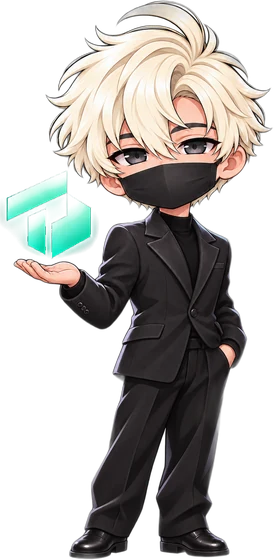
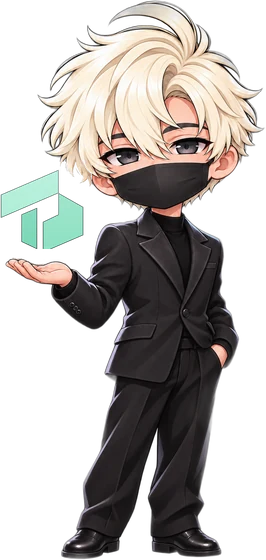
/start: owner's revised start page (sizes adjusted); drop my hero-size override
Owner, Nov 26 (start-page-1126, second version): smaller headline, gold 「ゼロから再び頂点へ」, redrawn logo in
rizel-hero.webp, phones sized to the frame. The hero now scales with the width itself, so the ≤413px override
from the previous commit is gone; the files are the owner's as sent. Checked at 360/390/440/1280.

Claude-Session: https://claude.ai/code/session_01R67K9fPgL6R1EiRyMi6iFp

diff --git a/public/start/index.html b/public/start/index.html
@@ -26,34 +26,33 @@ a:hover{filter:brightness(1.1)}
 @media (prefers-reduced-motion: reduce){.tp-s{animation:none}.tp-d1{opacity:1}.tp-glow{animation:none}.tp-glowm{animation:none}.tp-shine{animation:none}}
 
 .tpc{display:flex;flex-direction:column;align-items:stretch;gap:12px}
-.tpc-stage{position:relative;height:372px;border-radius:14px;background:radial-gradient(240px 200px at 26% 52%,rgba(61,219,176,0.22),rgba(61,219,176,0) 70%),radial-gradient(260px 220px at 76% 50%,rgba(232,190,85,0.36),rgba(232,190,85,0) 70%),#090a11;border:1px solid rgba(232,190,85,0.3);overflow:hidden;touch-action:pan-y;cursor:pointer}
-.tpc-ph{position:absolute;width:136px;height:286px;border-radius:28px;padding:6px;box-sizing:border-box;background:linear-gradient(135deg,#6e6e73 0%,#2b2b2e 18%,#8a8a8f 35%,#3a3a3d 55%,#9a9aa0 80%,#4a4a4d 100%);box-shadow:inset 0 0 0 1px #1c1c1e,inset 0 0 0 2px rgba(168,168,173,.33),0 22px 36px rgba(0,0,0,.8)}
-.tpc-ph:before{content:"";position:absolute;left:-2px;top:58px;width:2px;height:18px;background:#7a7a7e;border-radius:2px;box-shadow:0 28px 0 #7a7a7e,0 56px 0 #7a7a7e}
-.tpc-ph:after{content:"";position:absolute;right:-2px;top:84px;width:2px;height:40px;background:#7a7a7e;border-radius:2px}
-.tpc-l{left:9%;top:22px;transform:rotate(-6deg);z-index:1}
-.tpc-r{right:9%;top:34px;transform:rotate(5deg);z-index:2;box-shadow:inset 0 0 0 1px #1c1c1e,inset 0 0 0 2px rgba(168,168,173,.33),0 22px 36px rgba(0,0,0,.8),0 0 34px rgba(232,190,85,.35)}
-.tpc-sc{position:relative;width:100%;height:100%;border-radius:22px;overflow:hidden;background:#0b0f16}
-.tpc-sb{position:absolute;top:0;left:0;right:0;height:18px;display:flex;justify-content:space-between;align-items:center;padding:0 7px 0 14px;font:600 7px -apple-system,"Helvetica Neue",sans-serif;color:#fff;z-index:2;background:#0b0f16}
-.tpc-sb>span:last-child{transform:scale(.5)!important}
-.tpc-di{position:absolute;top:5px;left:50%;width:38px;height:11px;margin-left:-19px;border-radius:7px;background:#000;z-index:3}
-.tpc-img{position:absolute;left:0;right:0;top:18px;width:100%;opacity:0;transition:opacity .45s ease}
+.tpc-stage{position:relative;container-type:inline-size;height:calc(var(--w,300px)*1);border-radius:14px;background:radial-gradient(60% 55% at 26% 48%,rgba(61,219,176,0.22),rgba(61,219,176,0) 70%),radial-gradient(60% 55% at 76% 48%,rgba(232,190,85,0.36),rgba(232,190,85,0) 70%),#090a11;border:1px solid rgba(232,190,85,0.3);overflow:hidden;touch-action:pan-y;cursor:pointer;aspect-ratio:1/1.22;height:auto}
+.tpc-ph{position:absolute;width:47cqw;aspect-ratio:136/286;border-radius:7.8cqw;padding:1.7cqw;box-sizing:border-box;background:linear-gradient(135deg,#6e6e73 0%,#2b2b2e 18%,#8a8a8f 35%,#3a3a3d 55%,#9a9aa0 80%,#4a4a4d 100%);box-shadow:inset 0 0 0 1px #1c1c1e,inset 0 0 0 2px rgba(168,168,173,.33),0 22px 36px rgba(0,0,0,.8)}
+.tpc-ph:before{content:"";position:absolute;left:-2px;top:20%;width:2px;height:6%;background:#7a7a7e;border-radius:2px;box-shadow:0 9cqw 0 #7a7a7e}
+.tpc-ph:after{content:"";position:absolute;right:-2px;top:29%;width:2px;height:14%;background:#7a7a7e;border-radius:2px}
+.tpc-l{left:4cqw;top:5cqw;transform:rotate(-6deg);z-index:1}
+.tpc-r{right:4cqw;top:8cqw;transform:rotate(5deg);z-index:2;box-shadow:inset 0 0 0 1px #1c1c1e,inset 0 0 0 2px rgba(168,168,173,.33),0 22px 36px rgba(0,0,0,.8),0 0 34px rgba(232,190,85,.35)}
+.tpc-sc{position:relative;width:100%;height:100%;border-radius:6.2cqw;overflow:hidden;background:#0b0f16}
+.tpc-sb{position:absolute;top:0;left:0;right:0;height:5cqw;display:flex;justify-content:space-between;align-items:center;padding:0 2cqw 0 4cqw;font:600 2cqw -apple-system,"Helvetica Neue",sans-serif;color:#fff;z-index:2;background:#0b0f16}
+.tpc-sb>span:last-child{transform:scale(.14cqw)!important;transform:scale(.5)!important}
+.tpc-di{position:absolute;top:1.4cqw;left:50%;width:10.5cqw;height:3cqw;margin-left:-5.25cqw;border-radius:2cqw;background:#000;z-index:3}
+.tpc-img{position:absolute;left:0;right:0;top:5cqw;width:100%;opacity:0;transition:opacity .3s ease}
 .tpc-img.on{opacity:1}
-.tpc-gl{position:absolute;inset:0;border-radius:22px;background:linear-gradient(115deg,rgba(255,255,255,.11) 0%,rgba(255,255,255,.02) 28%,rgba(255,255,255,0) 40%);pointer-events:none;z-index:4}
-.tpc-caps{position:absolute;left:0;right:0;bottom:12px;height:20px}
-.tpc-cap{position:absolute;inset:0;opacity:0;transition:opacity .45s ease}
-.tpc-cap.on{opacity:1}
-.tpc-cap span{position:absolute;width:150px;text-align:center;font-size:12px;font-weight:700;white-space:nowrap}
-.tpc-cap .c1{left:calc(9% - 7px);color:#3ddbb0}.tpc-cap .c2{right:calc(9% - 7px);color:#f6d675}
-.tpc-cap .one{left:0;right:0;width:auto;color:#fff1b8;font-size:13px}
+.tpc-gl{position:absolute;inset:0;border-radius:6.2cqw;background:linear-gradient(115deg,rgba(255,255,255,.11) 0%,rgba(255,255,255,.02) 28%,rgba(255,255,255,0) 40%);pointer-events:none;z-index:4}
+.tpc-caps{position:absolute;left:0;right:0;bottom:4cqw;height:20px}
+.tpc-cap{position:absolute;inset:0;display:none}
+.tpc-cap.on{display:block;animation:tpcin .35s ease}
+@keyframes tpcin{from{opacity:0}to{opacity:1}}
+.tpc-cap span{position:absolute;width:44cqw;text-align:center;font-size:clamp(10.5px,3.6cqw,13px);font-weight:700;white-space:nowrap}
+.tpc-cap .c1{left:4cqw;color:#3ddbb0}.tpc-cap .c2{right:4cqw;color:#f6d675}
+.tpc-cap .one{left:0;right:0;width:auto;color:#fff1b8;font-size:clamp(11.5px,4cqw,14px)}
 .tpc-ctl{display:flex;align-items:center;justify-content:center;gap:12px}
 .tpc-ar{flex:none;width:30px;height:30px;border-radius:50%;border:1px solid rgba(232,190,85,0.45);background:#0f1017;color:#f6d675;font-size:17px;line-height:1;display:grid;place-items:center;cursor:pointer;padding:0}
 .tpc-dots{display:flex;gap:5px;align-items:center}
 .tpc-dots i{width:6px;height:6px;border-radius:3px;background:#2a2e3a;transition:all .3s}
 .tpc-dots i.on{width:16px;background:#e8be55}
-@media (prefers-reduced-motion: reduce){.tpc-img,.tpc-cap{transition:none}}
+@media (prefers-reduced-motion: reduce){.tpc-img{transition:none}.tpc-cap.on{animation:none}}
 .tp-ln{font-size:clamp(11.5px, calc((100vw - 130px) / 17.5), 15px)}.tp-ln span{display:inline-block;white-space:nowrap}
-/* Phones up to 413px: the figure's feet reached 「作りました！」 (owner spec: no overlap) */
-@media (max-width:413px){.rz-hero{height:184px!important}}
 </style>
 </head>
 <body>
@@ -71,14 +70,14 @@ a:hover{filter:brightness(1.1)}
 </svg>
 <div style="position: absolute; right: 12px; bottom: 76px; width: 14px; height: 14px; border-radius: 50%; background: #f6d675; box-shadow: 0 0 18px 4px rgba(246,214,117,0.7)"></div>
 
-<img class="rz-hero" src="/start/rizel-hero.webp" alt="" aria-hidden="true" style="position: absolute; right: 4px; top: -6px; height: 210px; width: auto; pointer-events: none">
+<img src="/start/rizel-hero.webp" alt="" aria-hidden="true" style="position: absolute; right: -4px; top: -10px; height: clamp(150px, calc(100vw - 210px), 210px); width: auto; pointer-events: none">
 <div style="position: relative; display: flex; align-items: center; gap: 10px; font-size: 13px; font-weight: 700; letter-spacing: 0.14em; color: #3ddbb0"><span style="display: block; width: 28px; height: 2px; background: #3ddbb0"></span>投資家わたがし改め、リゼル始動</div>
 <div style="position: relative; display: flex; flex-direction: column; font-family: 'Space Grotesk', sans-serif; font-weight: 700; line-height: 1.05; letter-spacing: 0.01em">
 <span style="font-size: 44px; background: linear-gradient(180deg, #ffffff, #e6dcc0); -webkit-background-clip: text; background-clip: text; color: transparent">Tech Phase</span>
 <span style="font-size: 44px; background: linear-gradient(90deg, #fff1b8, #e8be55 45%, #c8932a); -webkit-background-clip: text; background-clip: text; color: transparent">Research</span>
 </div>
-<h1 style="position: relative; margin: 0; font-family: 'Shippori Mincho B1', serif; font-size: 27px; line-height: 1.55; font-weight: 800; color: #ffffff">米国ハイテク株<br>特化型サイト作りました！</h1>
-<div style="position: relative; font-family: 'Shippori Mincho B1', serif; font-size: 26px; font-weight: 800; letter-spacing: 0.04em; background: linear-gradient(90deg, #fff1b8, #e8be55 50%, #d09a2c); -webkit-background-clip: text; background-clip: text; color: transparent">ゼロから再び頂点へ</div>
+<h1 style="position: relative; margin: 0; font-family: 'Shippori Mincho B1', serif; font-size: 20px; line-height: 1.6; font-weight: 800; color: #ffffff">米国ハイテク株<br>特化型サイト作りました！</h1>
+<div style="position: relative; overflow: hidden; display: inline-block; align-self: flex-start; font-family: 'Shippori Mincho B1', serif; font-weight: 800; font-size: clamp(21px, 6.6vw, 26px); letter-spacing: 0.08em; white-space: nowrap; padding: 2px 0 6px; border-bottom: 2px solid; border-image: linear-gradient(90deg,#e8be55,rgba(232,190,85,0)) 1"><span style="background: linear-gradient(180deg, #fff6cf 0%, #f3cf6a 45%, #b9842a 55%, #f0c860 100%); -webkit-background-clip: text; background-clip: text; color: transparent">ゼロから再び頂点へ</span><span class="tp-shine" style="position:absolute;top:0;bottom:0;left:0;width:30%;background:linear-gradient(100deg,rgba(255,255,255,0),rgba(255,248,214,.45),rgba(255,255,255,0));pointer-events:none"></span></div>
 </section>
 
 <div style="margin-left: 6px; border-left: 2px solid rgba(232,190,85,0.4); padding-left: 20px; display: flex; flex-direction: column; gap: 44px">
@@ -128,8 +127,8 @@ a:hover{filter:brightness(1.1)}
 <div style="display: flex; align-items: center; gap: 14px">
 <img src="/start/logo.png" alt="Tech Phase Researchのロゴ" style="flex: none; width: 60px; height: 60px; border-radius: 14px; display: block">
 <div style="min-width: 0; display: flex; flex-direction: column; gap: 6px">
-<div style="font-family: 'Space Grotesk', sans-serif; font-size: 22px; font-weight: 700; color: #eef0f5">Tech Phase <span style="color: #e8be55">Research</span></div>
-<div style="font-family: 'Shippori Mincho B1', serif; font-size: 18px; line-height: 1.5; font-weight: 800; color: #ffffff"><span style="display: inline-block">米国株の変化を、</span><span style="display: inline-block">先読みする。</span></div>
+<div style="font-family: 'Space Grotesk', sans-serif; font-size: clamp(15px, calc((100vw - 172px) / 10.8), 22px); font-weight: 700; color: #eef0f5; white-space: nowrap">Tech Phase <span style="color: #e8be55">Research</span></div>
+<div style="font-family: 'Shippori Mincho B1', serif; font-size: clamp(12px, calc((100vw - 172px) / 14), 18px); line-height: 1.5; font-weight: 800; color: #ffffff; white-space: nowrap">米国株の変化を、先読みする。</div>
 </div>
 </div>
 
